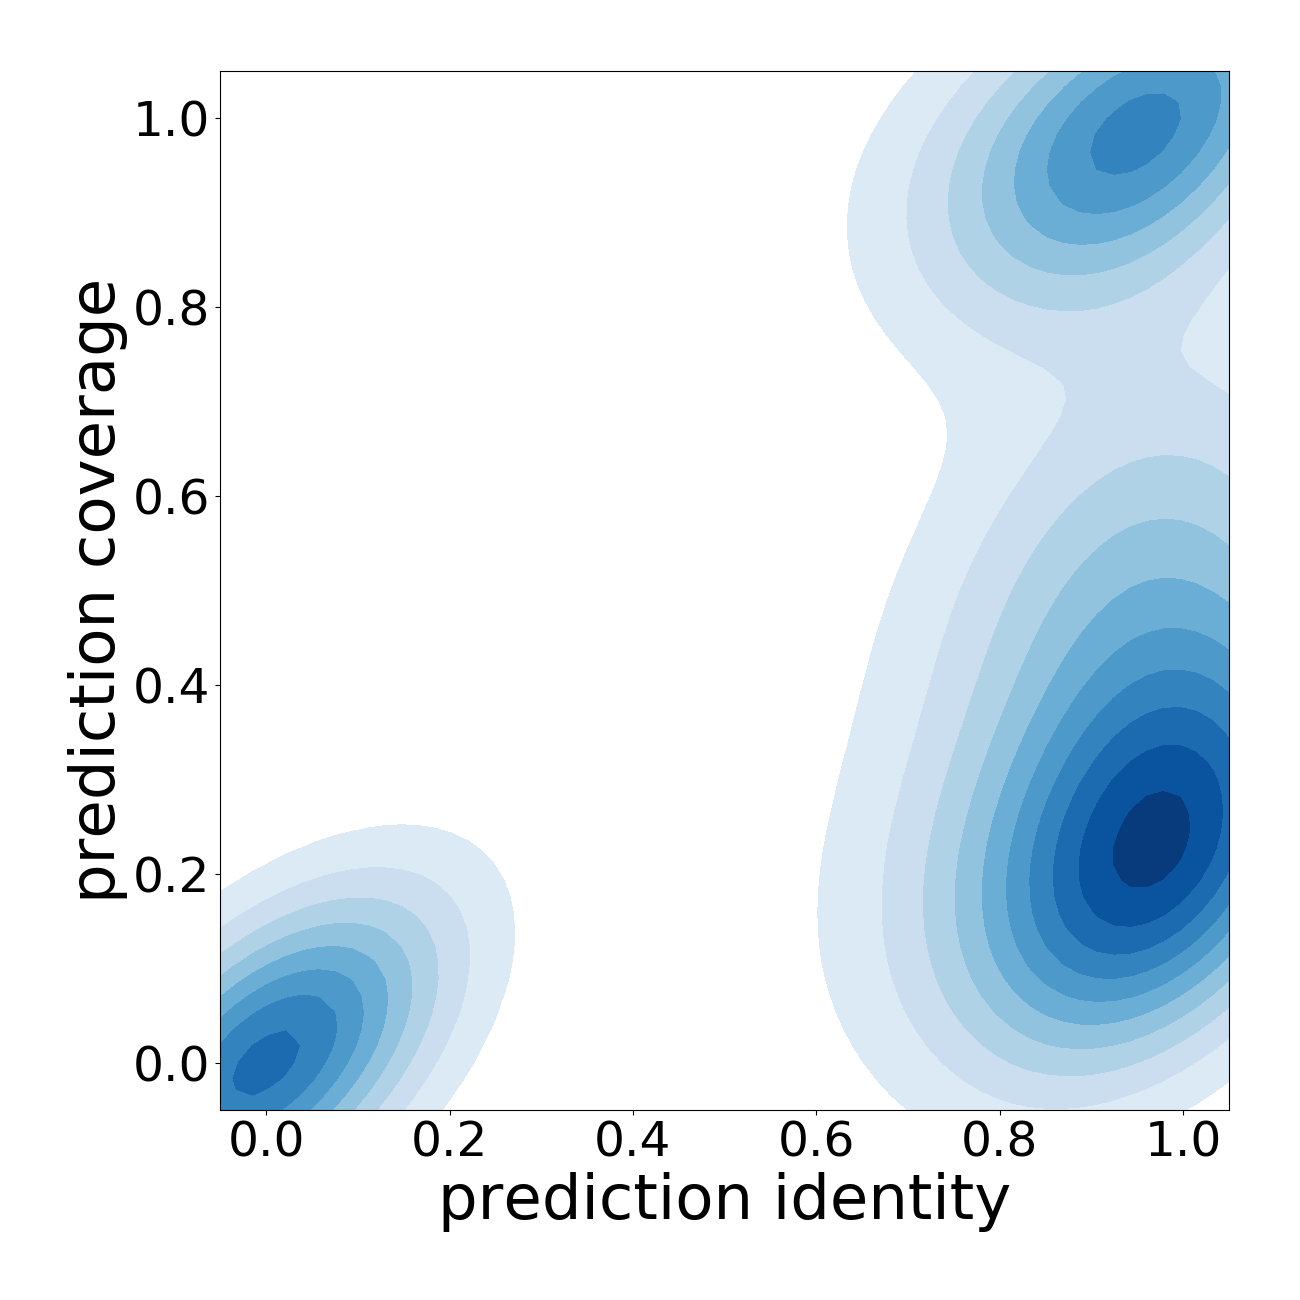
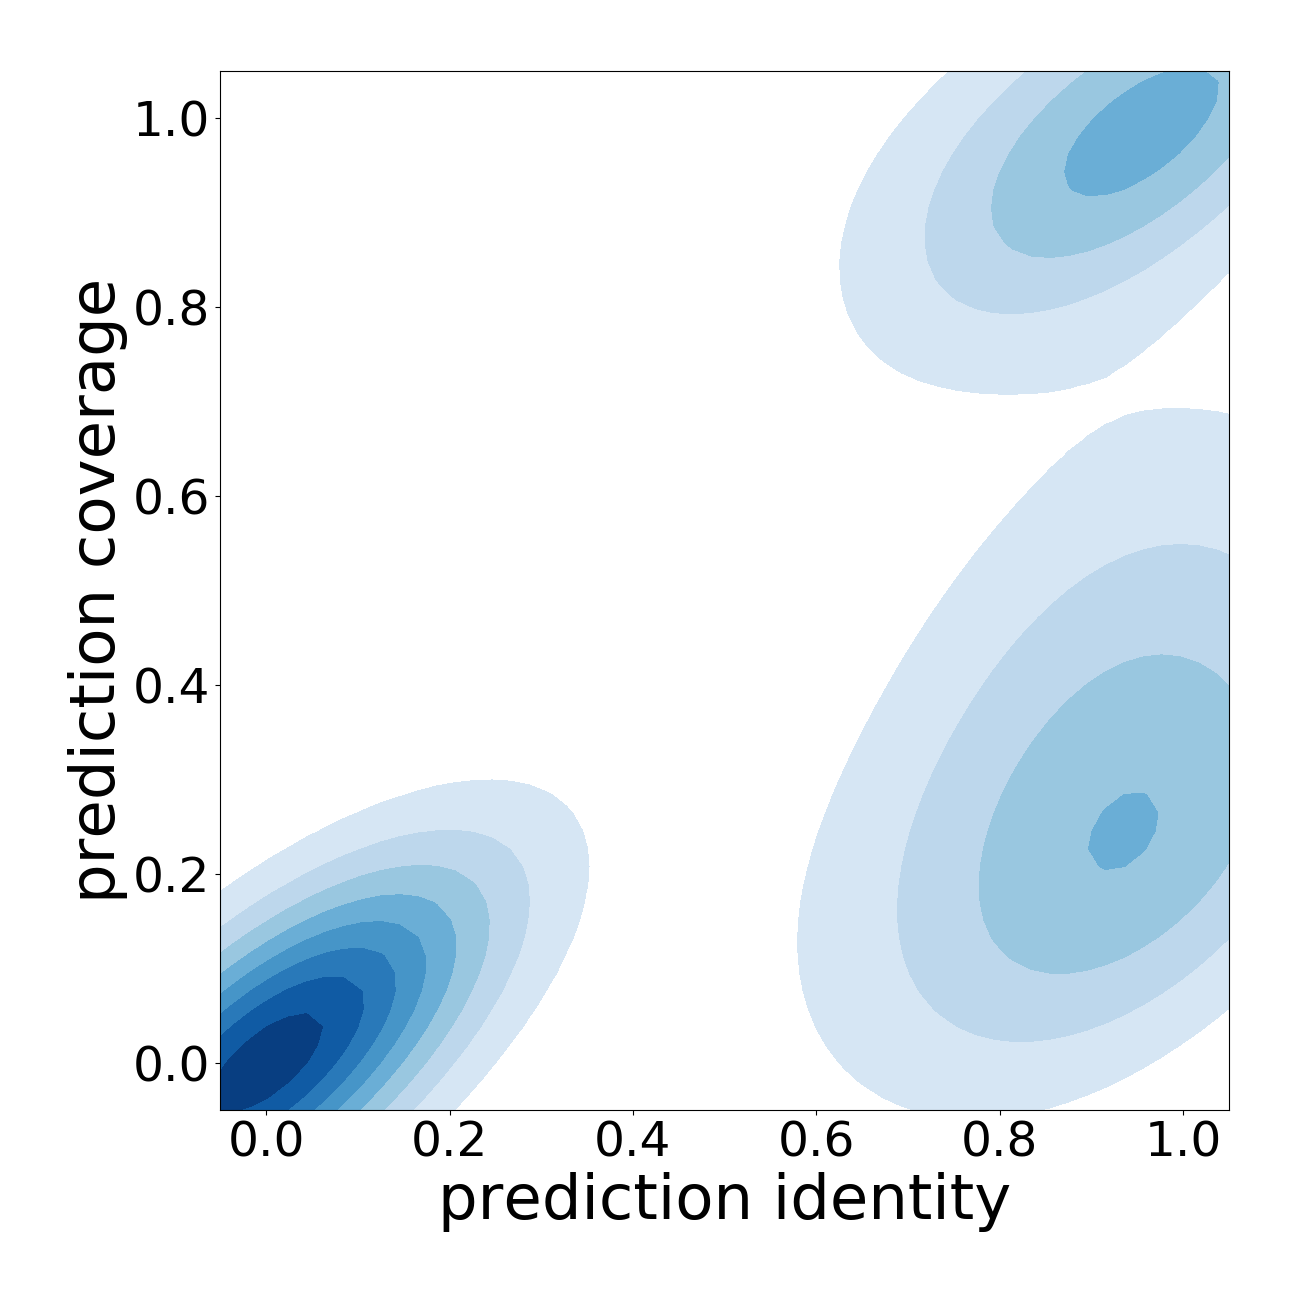
I'm not actually allowed to know where the gap is

diff --git a/src/app/helper_scripts/data_crunching/wrangle_csv.py b/src/app/helper_scripts/data_crunching/wrangle_csv.py
@@ -43,8 +43,7 @@ def evaluate_gap(df, predict_from_left):
         prediction_length_considered = strict_gap_end if predict_from_left else prediction_length - strict_gap_end
         coverage = prediction_bases/prediction_length_considered
 
-        gap_flank_distance = abs(corrected_flank_start - corrected_gap_end)
-        preliminary_pass = 1 if (gap_flank_distance <= distance_threshold and row.flank_correctness >= correctness_threshold) else 0
+        preliminary_pass = 1 if row.flank_correctness >= correctness_threshold else 0
         gap_coverage.append(coverage)
         is_pass.append(preliminary_pass)
     coverage = pd.Series(data=np.array(gap_coverage))
